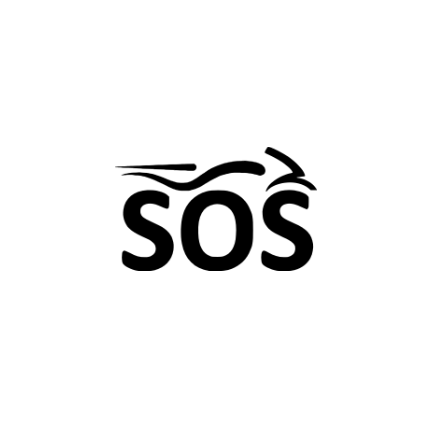
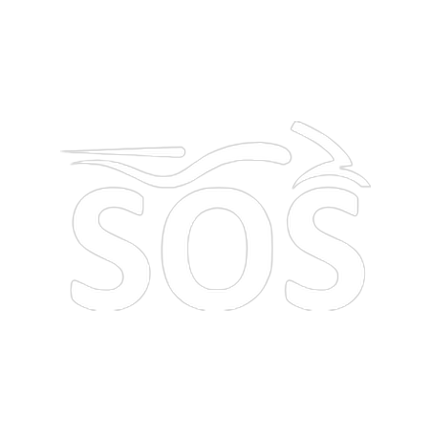
fix: tab bar de negocio, animacion de arranque, fondo gris en listas cortas, spinner de cerrar sesion, tarjetas de equipo y icono de notificacion
- Tab bar (negocio): ya no muestra "Catalogo" ni "Solicitudes" con el tipo
  de negocio equivocado mientras carga -- ambas quedan ocultas hasta que
  se confirma workshop/store, en vez de asumir uno de los dos.
- Stack raiz: animation: 'none' para que la transicion inicial (splash ->
  Home) no se vea como un slide hacia la izquierda.
- 41 pantallas con ScrollView: se agrego flexGrow: 1 al contentContainerStyle
  para que el fondo blanco cubra toda la pantalla incluso con poco contenido
  (antes se veia un area gris debajo de listas cortas).
- Boton de cerrar sesion (cliente, negocio, y el de BusinessProfileView):
  ahora muestra un spinner mientras cierra sesion, no solo el texto.
- Tarjetas de "Mi equipo": editar y eliminar ahora son botones cuadrados
  en la esquina superior derecha (antes el lapiz estaba suelto junto al
  cargo).
- Icono de notificacion: el glifo era negro (debia ser blanco, siluete
  segun el canal alfa) y ocupaba solo ~46% del lienzo -- se recoloreo a
  blanco y se agrando a ~72% para que se vea consistente y mas grande en
  la barra de estado y notificaciones desplegadas.

diff --git a/app/(business)/empleados.tsx b/app/(business)/empleados.tsx
@@ -328,23 +328,24 @@ function EmployeeRow({
       <View style={styles.cardHeader}>
         <Text style={styles.cardTitle}>{employee.user?.full_name ?? 'Usuario'}</Text>
         {isOwner && (
-          <Pressable onPress={handleRemove}>
-            <Ionicons name="trash-outline" size={20} color={colors.danger} />
-          </Pressable>
+          <View style={styles.cardHeaderActions}>
+            <Pressable
+              style={styles.iconButtonBox}
+              onPress={() => { setJobTitle(employee.job_title ?? ''); setEditingJobTitle((v) => !v); }}
+            >
+              <Ionicons name="create-outline" size={16} color={colors.primary} />
+            </Pressable>
+            <Pressable style={[styles.iconButtonBox, styles.iconButtonBoxDanger]} onPress={handleRemove}>
+              <Ionicons name="trash-outline" size={16} color={colors.danger} />
+            </Pressable>
+          </View>
         )}
       </View>
       {employee.user?.email && <Text style={styles.cardMeta}>{employee.user.email}</Text>}
       {employee.user?.phone && <Text style={styles.cardMeta}>{employee.user.phone}</Text>}
 
       {!editingJobTitle ? (
-        <View style={styles.jobTitleRow}>
-          <Text style={styles.jobTitleText}>{employee.job_title || 'Sin cargo asignado'}</Text>
-          {isOwner && (
-            <Pressable onPress={() => { setJobTitle(employee.job_title ?? ''); setEditingJobTitle(true); }} hitSlop={8}>
-              <Ionicons name="pencil-outline" size={16} color={colors.primary} />
-            </Pressable>
-          )}
-        </View>
+        <Text style={styles.jobTitleText}>{employee.job_title || 'Sin cargo asignado'}</Text>
       ) : (
         <View style={styles.jobTitleEditBox}>
           <TextField label="Cargo" placeholder={getJobTitlePlaceholder(businessType)} value={jobTitle} onChangeText={setJobTitle} />
@@ -453,6 +454,7 @@ const styles = StyleSheet.create({
     padding: 20,
   },
   container: {
+    flexGrow: 1,
     paddingHorizontal: 20,
     paddingTop: 16,
     paddingBottom: 20,
@@ -503,6 +505,21 @@ const styles = StyleSheet.create({
     justifyContent: 'space-between',
     alignItems: 'center',
   },
+  cardHeaderActions: {
+    flexDirection: 'row',
+    gap: 8,
+  },
+  iconButtonBox: {
+    width: 30,
+    height: 30,
+    borderRadius: 8,
+    backgroundColor: '#FFF1E6',
+    alignItems: 'center',
+    justifyContent: 'center',
+  },
+  iconButtonBoxDanger: {
+    backgroundColor: '#FBE8E8',
+  },
   invitationInfo: {
     flexDirection: 'row',
     alignItems: 'center',
@@ -535,16 +552,11 @@ const styles = StyleSheet.create({
     borderTopColor: colors.border,
     paddingTop: 10,
   },
-  jobTitleRow: {
-    flexDirection: 'row',
-    alignItems: 'center',
-    gap: 6,
-    marginTop: 6,
-  },
   jobTitleText: {
     fontSize: 13,
     fontWeight: '600',
     color: colors.primary,
+    marginTop: 6,
   },
   jobTitleEditBox: {
     marginTop: 8,

diff --git a/app/(business)/configuracion.tsx b/app/(business)/configuracion.tsx
@@ -9,6 +9,7 @@ import { useCachedLoad } from '../../hooks/useCachedLoad';
 import { signOut } from '../../services/auth';
 import { getMyWorkBusiness } from '../../services/businesses';
 import { getPlanLimits, type PlanLimits } from '../../services/catalog';
+import { getEmployees } from '../../services/employees';
 import { getPendingRequests } from '../../services/helpRequests';
 import type { Business } from '../../types/database';
 
@@ -22,6 +23,7 @@ interface BusinessConfigData {
   business: Business | null;
   plan: PlanLimits | null;
   pendingCount: number;
+  employeeCount: number;
 }
 
 export default function BusinessConfiguracionScreen() {
@@ -31,19 +33,21 @@ export default function BusinessConfiguracionScreen() {
 
   const cacheKey = profile ? `business-config-${profile.id}` : null;
   const { data, loading, reload } = useCachedLoad<BusinessConfigData>(cacheKey, async () => {
-    if (!profile) return { business: null, plan: null, pendingCount: 0 };
+    if (!profile) return { business: null, plan: null, pendingCount: 0, employeeCount: 0 };
     const work = await getMyWorkBusiness(profile.id);
     const myBusiness = work?.business ?? null;
-    if (!myBusiness) return { business: null, plan: null, pendingCount: 0 };
-    const [planLimits, pending] = await Promise.all([
+    if (!myBusiness) return { business: null, plan: null, pendingCount: 0, employeeCount: 0 };
+    const [planLimits, pending, employees] = await Promise.all([
       getPlanLimits(myBusiness.id),
       getPendingRequests(myBusiness.id),
+      getEmployees(myBusiness.id),
     ]);
-    return { business: myBusiness, plan: planLimits, pendingCount: pending.length };
+    return { business: myBusiness, plan: planLimits, pendingCount: pending.length, employeeCount: employees.length };
   });
   const business = data?.business ?? null;
   const plan = data?.plan ?? null;
   const pendingCount = data?.pendingCount ?? 0;
+  const employeeCount = data?.employeeCount ?? 0;
 
   async function handleRefresh() {
     setRefreshing(true);
@@ -109,6 +113,12 @@ export default function BusinessConfiguracionScreen() {
       <View style={styles.menuGroup}>
         <MenuRow icon="storefront-outline" label="Datos del negocio" onPress={() => router.push('/(business)/datos-negocio')} />
         <MenuRow icon="time-outline" label="Horario" onPress={() => router.push('/(business)/horario')} />
+        <MenuRow
+          icon="people-circle-outline"
+          label="Equipo"
+          badge={employeeCount > 0 ? `${employeeCount} persona${employeeCount === 1 ? '' : 's'}` : undefined}
+          onPress={() => router.push('/(business)/empleados')}
+        />
         <MenuRow icon="grid-outline" label="Catálogo" onPress={() => router.push('/(business)/catalogo')} />
         {business.business_type === 'workshop' && (
           <MenuRow icon="calendar-outline" label="Agenda" onPress={() => router.push('/(business)/agenda-negocio')} />
@@ -144,7 +154,6 @@ export default function BusinessConfiguracionScreen() {
           badge={plan ? planLabel[plan.planName] ?? plan.planName : undefined}
           onPress={() => router.push('/(business)/suscripcion')}
         />
-        <MenuRow icon="people-circle-outline" label="Equipo" onPress={() => router.push('/(business)/empleados')} />
         <MenuRow
           icon="shield-checkmark-outline"
           label="Verificación"
@@ -168,7 +177,11 @@ export default function BusinessConfiguracionScreen() {
         onPress={handleSignOut}
         disabled={signingOut}
       >
-        <Ionicons name="log-out-outline" size={18} color={colors.danger} />
+        {signingOut ? (
+          <ActivityIndicator size="small" color={colors.danger} />
+        ) : (
+          <Ionicons name="log-out-outline" size={18} color={colors.danger} />
+        )}
         <Text style={styles.signOutLabel}>{signingOut ? 'Cerrando sesión…' : 'Cerrar sesión'}</Text>
       </Pressable>
     </ScrollView>
@@ -214,6 +227,7 @@ const styles = StyleSheet.create({
     padding: 20,
   },
   container: {
+    flexGrow: 1,
     paddingHorizontal: 20,
     paddingTop: 16,
     paddingBottom: 20,

diff --git a/components/BusinessProfileView.tsx b/components/BusinessProfileView.tsx
@@ -52,6 +52,7 @@ export function BusinessProfileView({ mode, businessId }: BusinessProfileViewPro
   const [logoOverride, setLogoOverride] = useState<string | null>(null);
   const [uploadingLogo, setUploadingLogo] = useState(false);
   const [followLoading, setFollowLoading] = useState(false);
+  const [signingOut, setSigningOut] = useState(false);
   const [reportTarget, setReportTarget] = useState<{ type: 'business' | 'review'; id: string; label: string } | null>(null);
 
   const logoUrl = logoOverride ?? business?.logo_url ?? null;
@@ -129,8 +130,14 @@ export function BusinessProfileView({ mode, businessId }: BusinessProfileViewPro
   }
 
   async function handleSignOut() {
-    await signOut();
-    router.replace('/(auth)/login');
+    setSigningOut(true);
+    try {
+      await signOut();
+      router.replace('/(auth)/login');
+    } catch (err) {
+      console.error('sign out error', err);
+      setSigningOut(false);
+    }
   }
 
   async function toggleFollow() {
@@ -178,7 +185,7 @@ export function BusinessProfileView({ mode, businessId }: BusinessProfileViewPro
       return (
         <View style={styles.center}>
           <Text style={styles.placeholder}>{profile?.full_name ?? 'Perfil'}</Text>
-          <Button title="Cerrar sesión" variant="secondary" onPress={handleSignOut} />
+          <Button title="Cerrar sesión" variant="secondary" onPress={handleSignOut} loading={signingOut} />
         </View>
       );
     }

diff --git a/app/(client)/configuracion.tsx b/app/(client)/configuracion.tsx
@@ -1,5 +1,5 @@
 import { useState } from 'react';
-import { Alert, Linking, Pressable, ScrollView, StyleSheet, Text, View } from 'react-native';
+import { ActivityIndicator, Alert, Linking, Pressable, ScrollView, StyleSheet, Text, View } from 'react-native';
 import { router } from 'expo-router';
 import { Ionicons } from '@expo/vector-icons';
 import { colors } from '../../constants/colors';
@@ -101,7 +101,11 @@ export default function ConfiguracionScreen() {
         onPress={handleSignOut}
         disabled={signingOut}
       >
-        <Ionicons name="log-out-outline" size={18} color={colors.danger} />
+        {signingOut ? (
+          <ActivityIndicator size="small" color={colors.danger} />
+        ) : (
+          <Ionicons name="log-out-outline" size={18} color={colors.danger} />
+        )}
         <Text style={styles.dangerLabel}>{signingOut ? 'Cerrando sesión…' : 'Cerrar sesión'}</Text>
       </Pressable>
 
@@ -153,6 +157,7 @@ function MenuRow({
 
 const styles = StyleSheet.create({
   container: {
+    flexGrow: 1,
     paddingHorizontal: 20,
     paddingTop: 16,
     paddingBottom: 32,

diff --git a/app/(business)/(tabs)/_layout.tsx b/app/(business)/(tabs)/_layout.tsx
@@ -75,7 +75,11 @@ export default function BusinessTabsLayout() {
         options={{
           title: 'Catálogo',
           tabBarIcon: ({ color, size }) => <Ionicons name="cube" size={size} color={color} />,
-          href: isWorkshop ? null : undefined,
+          // Mientras businessType todavia no resuelve (null), ocultar esta
+          // pestaña en vez de asumir "no es taller" -- si no, en talleres se
+          // alcanza a ver "Catálogo" un instante antes de que aparezca
+          // "Solicitudes" y desaparezca esta, un flash confuso en la tab bar.
+          href: businessType === null || isWorkshop ? null : undefined,
         }}
       />
       <Tabs.Screen

diff --git a/app/_layout.tsx b/app/_layout.tsx
@@ -29,7 +29,10 @@ export default function RootLayout() {
       <AuthProvider>
         <KeyboardProvider>
           <StatusBar style="auto" />
-          <Stack screenOptions={{ headerShown: false }}>
+          {/* animation: 'none' -- este Stack solo enruta por rol (auth/cliente/negocio)
+              tras el splash; sin esto, la transición nativa por defecto se ve como un
+              slide justo cuando aparece Home, dando la sensación de un salto raro. */}
+          <Stack screenOptions={{ headerShown: false, animation: 'none' }}>
             <Stack.Screen name="(auth)" />
             <Stack.Screen name="(client)" />
             <Stack.Screen name="(business)" />

diff --git a/app/(business)/cliente-externo.tsx b/app/(business)/cliente-externo.tsx
@@ -442,7 +442,7 @@ export default function ClienteExternoScreen() {
 
 const styles = StyleSheet.create({
   center: { flex: 1, alignItems: 'center', justifyContent: 'center', backgroundColor: colors.background },
-  container: { padding: 20, backgroundColor: colors.background, paddingBottom: 40 },
+  container: { flexGrow: 1, padding: 20, backgroundColor: colors.background, paddingBottom: 40 },
 
   profileCard: {
     flexDirection: 'row', alignItems: 'center', gap: 14,

diff --git a/app/(business)/inventario.tsx b/app/(business)/inventario.tsx
@@ -493,7 +493,7 @@ export default function InventarioScreen() {
 
 const styles = StyleSheet.create({
   center: { flex: 1, alignItems: 'center', justifyContent: 'center', backgroundColor: colors.background },
-  container: { padding: 20, backgroundColor: colors.background, paddingBottom: 40 },
+  container: { flexGrow: 1, padding: 20, backgroundColor: colors.background, paddingBottom: 40 },
   summaryRow: { flexDirection: 'row', gap: 10, marginBottom: 20 },
   summaryCard: {
     flex: 1, alignItems: 'center', backgroundColor: colors.surface,

diff --git a/app/(business)/nuevo-cliente.tsx b/app/(business)/nuevo-cliente.tsx
@@ -385,7 +385,7 @@ export default function NuevoClienteScreen() {
 
 const styles = StyleSheet.create({
   center: { flex: 1, alignItems: 'center', justifyContent: 'center', backgroundColor: colors.background },
-  container: { padding: 20, backgroundColor: colors.background, paddingBottom: 40 },
+  container: { flexGrow: 1, padding: 20, backgroundColor: colors.background, paddingBottom: 40 },
   tabs: {
     flexDirection: 'row', backgroundColor: colors.surface,
     borderRadius: 12, padding: 4, marginBottom: 20,

diff --git a/app/(business)/nuevo-informe.tsx b/app/(business)/nuevo-informe.tsx
@@ -759,7 +759,7 @@ export default function NuevoInformeScreen() {
 
 const styles = StyleSheet.create({
   center: { flex: 1, alignItems: 'center', justifyContent: 'center', backgroundColor: colors.background },
-  container: { padding: 20, backgroundColor: colors.background, paddingBottom: 40 },
+  container: { flexGrow: 1, padding: 20, backgroundColor: colors.background, paddingBottom: 40 },
   subtitle: { fontSize: 14, color: colors.textMuted, marginBottom: 4 },
   clientRow: { flexDirection: 'row', alignItems: 'center', gap: 6, marginBottom: 4 },
   clientRowText: { flex: 1, fontSize: 14, color: colors.textMuted },

diff --git a/app/(business)/(tabs)/catalogo.tsx b/app/(business)/(tabs)/catalogo.tsx
@@ -976,6 +976,7 @@ const styles = StyleSheet.create({
     padding: 20,
   },
   container: {
+    flexGrow: 1,
     paddingHorizontal: SIDE_PADDING,
     paddingTop: 36,
     paddingBottom: 32,

diff --git a/app/(business)/(tabs)/mensajes.tsx b/app/(business)/(tabs)/mensajes.tsx
@@ -171,6 +171,7 @@ const styles = StyleSheet.create({
     backgroundColor: colors.background,
   },
   container: {
+    flexGrow: 1,
     paddingHorizontal: 20,
     paddingTop: 36,
     paddingBottom: 20,